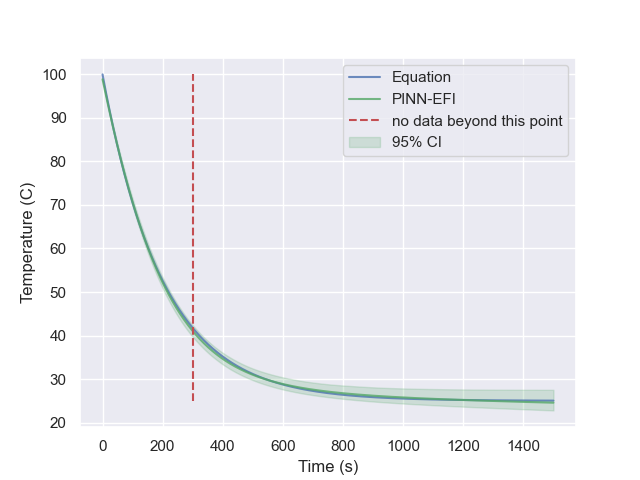
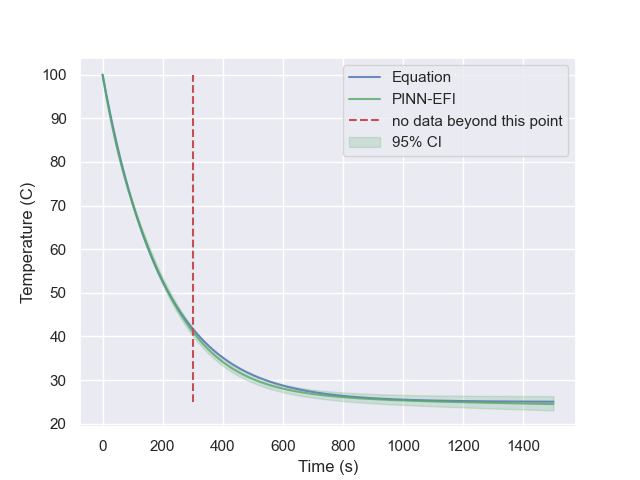
update encoder net

diff --git a/PINN/common/torch_layers.py b/PINN/common/torch_layers.py
@@ -38,6 +38,16 @@ class BaseDNN(nn.Module):
         return x
     
 
+class EncoderDNN(BaseDNN):
+    def __init__(self, input_dim, output_dim, hidden_layers=None, activation_fn=F.relu):
+        if hidden_layers is None:
+            last_hidden = 2 ** int(np.log2(output_dim))
+            # hidden_layers = [last_hidden//4, last_hidden//2 , last_hidden]
+            hidden_layers = [last_hidden//2 , last_hidden]
+        super(EncoderDNN, self).__init__(input_dim, output_dim, hidden_layers, activation_fn)
+
+    
+
 class DropoutDNN(nn.Module):
     def __init__(self, input_dim, output_dim, hidden_layers=None, activation_fn=F.relu, dropout_rate=0.01):
         super(DropoutDNN, self).__init__()
@@ -148,7 +158,8 @@ class EFI_Net(nn.Module):
 
         self.gmm = GaussianMixtureModel(prior_sd, sparse_sd)
         
-        self.encoder = BaseDNN(input_dim=self.encoder_input_dim, output_dim=self.n_parameters, activation_fn=activation_fn)
+        # self.encoder = BaseDNN(input_dim=self.encoder_input_dim, output_dim=self.n_parameters, activation_fn=activation_fn)
+        self.encoder = EncoderDNN(input_dim=self.encoder_input_dim, output_dim=self.n_parameters, activation_fn=activation_fn)
         for p in self.parameters():
             p.data = torch.randn_like(p.data) * 0.001
 
@@ -216,7 +227,7 @@ class EFI_Net(nn.Module):
         return log_prior
     
     def sparsity_loss(self, theta):
-        xi = 0.1
+        xi = 0.01
         a = 1
         return torch.where(theta.abs() > a * xi, torch.zeros_like(theta.abs()), theta.abs()).sum()
 
@@ -249,13 +260,10 @@ if __name__ == '__main__':
     
     
     
-    net = nn.Sequential(
-        nn.Linear(1, 10),
-        # nn.ReLU(),
-        nn.Linear(10, 10),
-        # nn.ReLU(),
-        nn.Linear(10, 1)
-    )
+    net = EncoderDNN(5, 500)
+    param_size = 0
+    for p in net.parameters():
+        param_size += p.numel()
+        print(p.shape)
     
-    for key, value in net.named_parameters():
-        print(key, value.shape)
+    print(param_size)

diff --git a/PINN/european_call/pinn_efi.py b/PINN/european_call/pinn_efi.py
@@ -48,6 +48,7 @@ class PINN_EFI(BasePINN):
         self.net.eval()
         theta_loss = self.net.theta_encode(self.X, self.y, self.Z)
         y_loss = self.mse_loss(self.y, self.net(self.X) + self.Z)
+        # y_loss = self.mse_loss(self.y, self.net(self.X + torch.cat([torch.zeros_like(self.Z), self.Z], dim=1)))
         Z_loss = self.lambda_y * y_loss + self.lambda_theta * theta_loss + torch.mean(self.Z**2)/2/self.noise_sd**2
         
 
@@ -60,6 +61,7 @@ class PINN_EFI(BasePINN):
         self.net.train()
         theta_loss = self.net.theta_encode(self.X, self.y, self.Z)
         y_loss = self.mse_loss(self.y, self.net(self.X) + self.Z)
+        # y_loss = self.mse_loss(self.y, self.net(self.X + torch.cat([torch.zeros_like(self.Z), self.Z], dim=1)))
         prior_loss = - self.net.gmm_prior_loss() / self.n_samples
         
         w_loss = self.lambda_y * (y_loss + prior_loss) + self.physics_loss_weight * self.physics_loss(self.net) + self.lambda_theta * theta_loss 
@@ -79,12 +81,12 @@ if __name__ == '__main__':
     
 
     pinn_efi = PINN_EFI(physics_model=physics_model, 
-                        physics_loss_weight=1, 
+                        physics_loss_weight=5, 
                         lr=1e-4, 
                         sgld_lr=1e-4, 
                         lambda_y=10, 
                         lambda_theta=1,
-                        hidden_layers=[20, 20]
+                        hidden_layers=[20, 20, 20]
                         )
 
     # print(pinn_efi.eval_X.shape)

diff --git a/PINN/european_call/plot_fig.py b/PINN/european_call/plot_fig.py
@@ -45,20 +45,21 @@ if __name__ == '__main__':
     S_grid = data['S_grid']
     t_grid = data['t_grid']
 
-    plot_3D()
+    # plot_3D()
     
-    # print(t_grid[:,0])
-    # true_price = model.physics_law(S_grid[:,0], t_grid[:,0])
+    print(t_grid[:,0])
+    true_price = model.physics_law(S_grid[:,0], t_grid[:,0])
     
     
-    # fig = plt.figure()
-    # ax = fig.add_subplot(111)
+    fig = plt.figure()
+    ax = fig.add_subplot(111)
     
-    # ax.plot(S_grid[:,0], preds_mean[:,0], label='PINN_EFI')
-    # ax.plot(S_grid[:,0], true_price, label='True Price')
-    # ax.fill_between(S_grid[:,0], preds_upper[:,0], preds_lower[:,0], alpha=0.2, color='g', label='95% CI')
-    # ax.set_xlabel('Stock Price')
-    # ax.set_ylabel('Option Price')
-    # ax.legend()
-    # plt.show()
+    ax.plot(S_grid[:,0], preds_mean[:,0], label='PINN_EFI')
+    ax.plot(S_grid[:,0], true_price, label='True Price')
+    ax.fill_between(S_grid[:,0], preds_upper[:,0], preds_lower[:,0], alpha=0.2, color='g', label='95% CI')
+    ax.set_xlabel('Stock Price')
+    ax.set_ylabel('Option Price')
+    ax.legend()
+    plt.show()
+    
     
